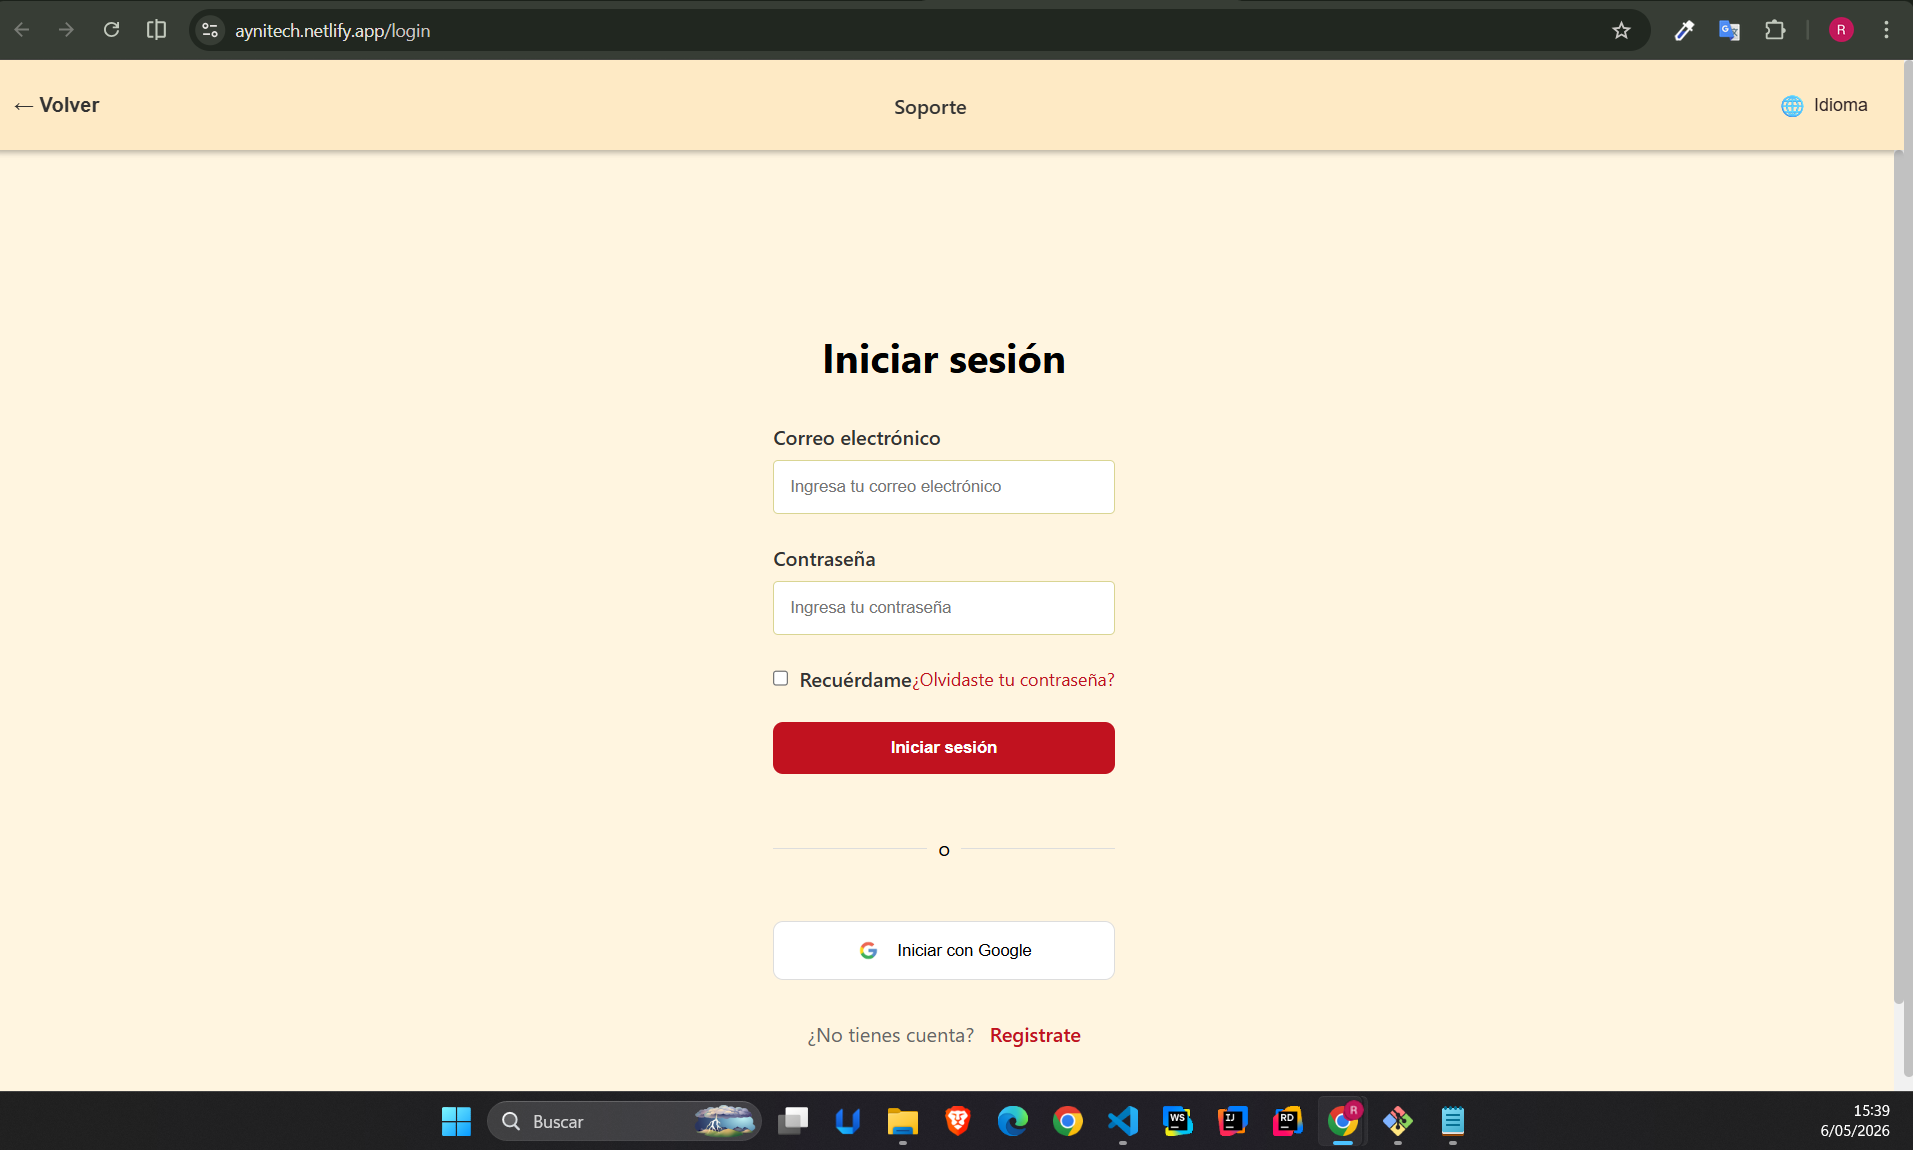
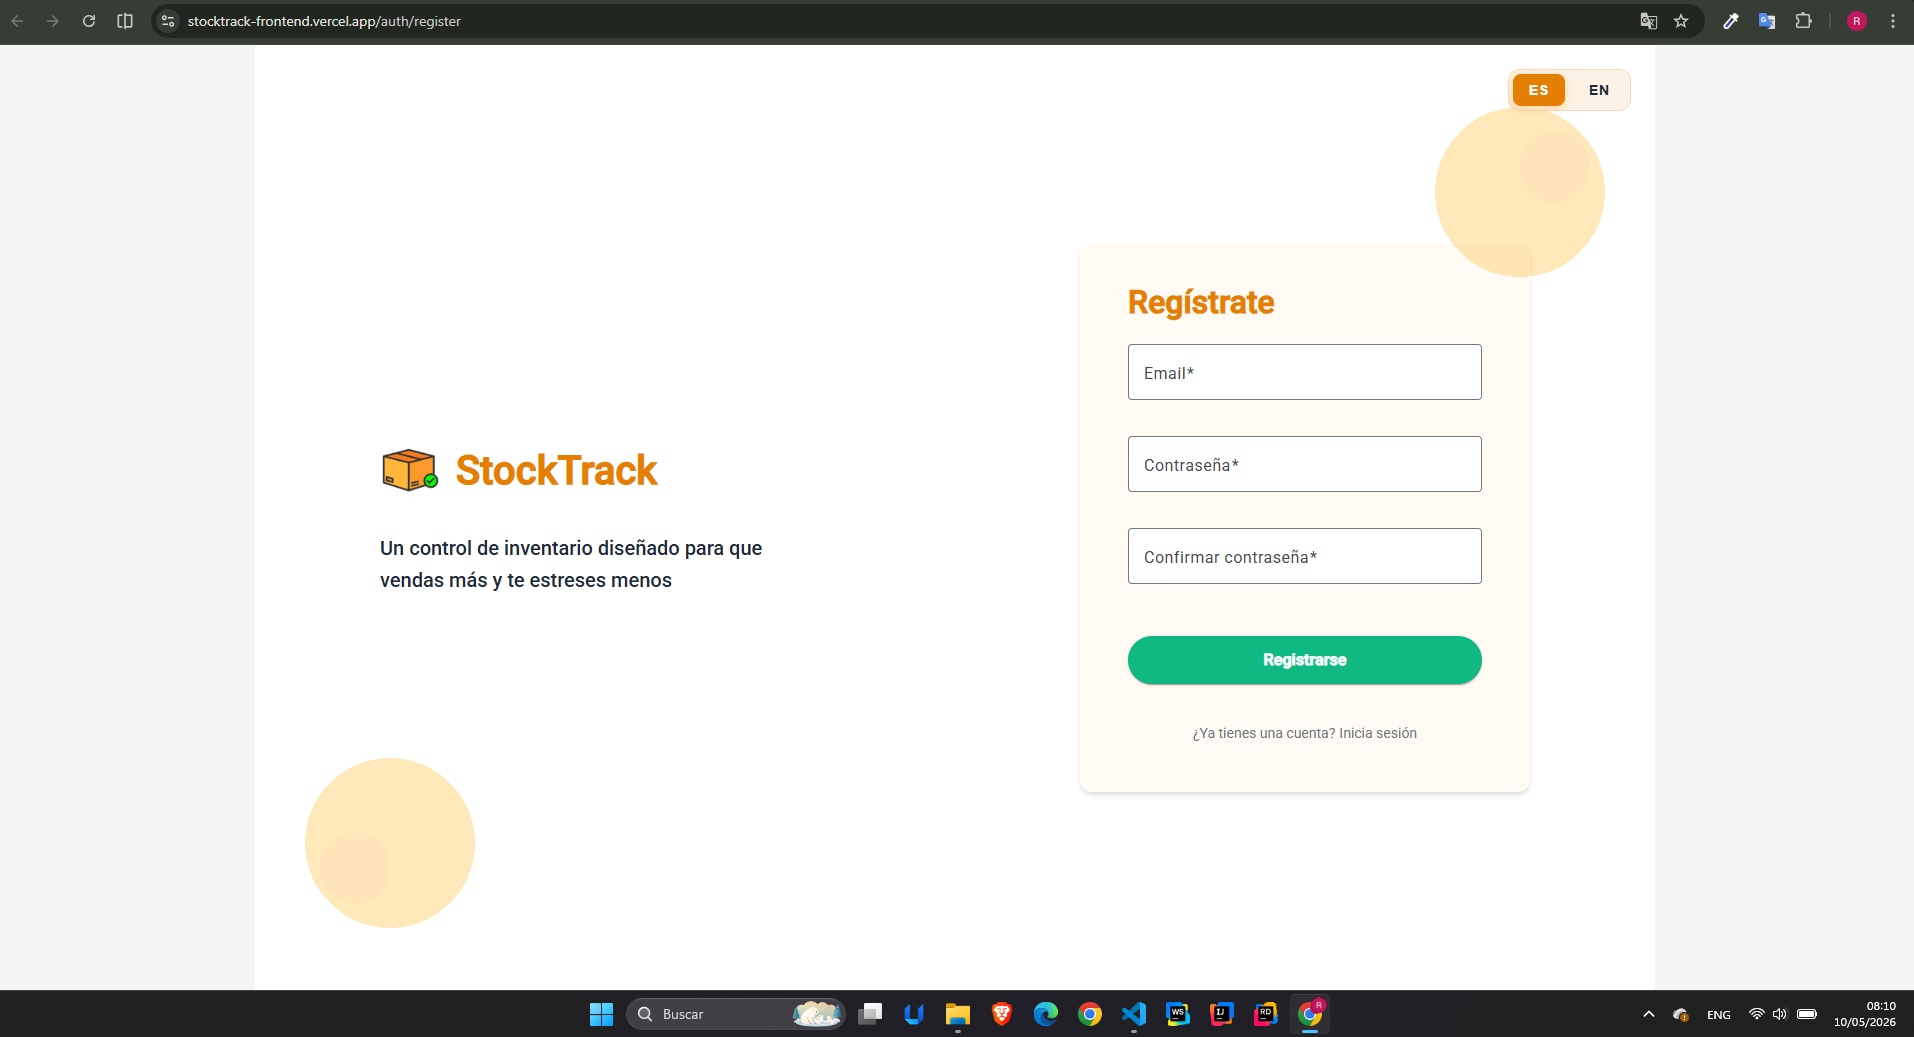
fix: Update link landingPage and frontendApp

diff --git a/README.md b/README.md
@@ -605,14 +605,14 @@ En esta sección se presenta la evidencia visual de la Landing Page oficial de S
 
 ![Landing Page](./assets/Chapter-5/landing_1.png)
 
-Link: [https://landing_page.com](https://upc-pre-202510-1asi0730-4366-aynitech.github.io/Landing-Page/)
+Link: [https://landing_page.com](https://stockwiselanding.netlify.app/)
 
 ### 5.2.3. Implemented Frontend-Web Application Evidence
 Se detallan a continuación las interfaces que componen el Dashboard Web de Administración. Este componente está orientado al dueño de negocio o administrador, permitiendo una gestión centralizada y profunda del inventario que complementa la operación móvil. Las capturas muestran el panel de control con métricas en tiempo real, la tabla de gestión de productos con opciones avanzadas de filtrado y el módulo de administración de usuarios para la asignación de roles.
 
 ![Front_app](./assets/Chapter-5/front_app.png)
 
-Link: [https://front_app.com](https://aynitech.netlify.app)
+Link: [https://front_app.com](https://stocktrack-frontend.vercel.app/auth/register)
 
 ### 5.2.4. Acuerdo de Servicio - SaaS
 El presente Acuerdo de Servicio regula los términos y condiciones bajo los cuales los usuarios acceden y utilizan la plataforma Stoq, una solución SaaS (Software as a Service) desarrollada para optimizar la gestión de inventarios y control de stock en pequeñas y medianas empresas (pymes), startups y bodegas especializadas en el Perú.